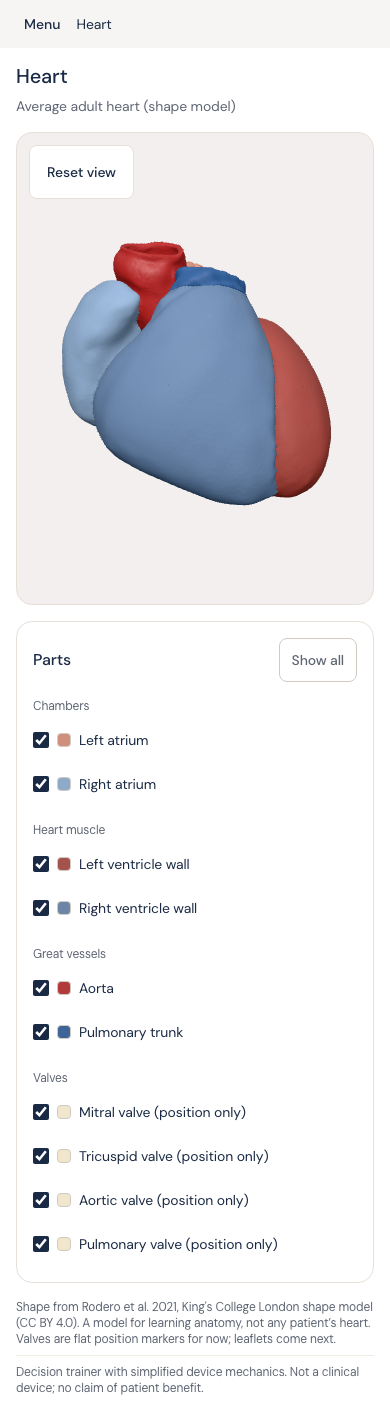
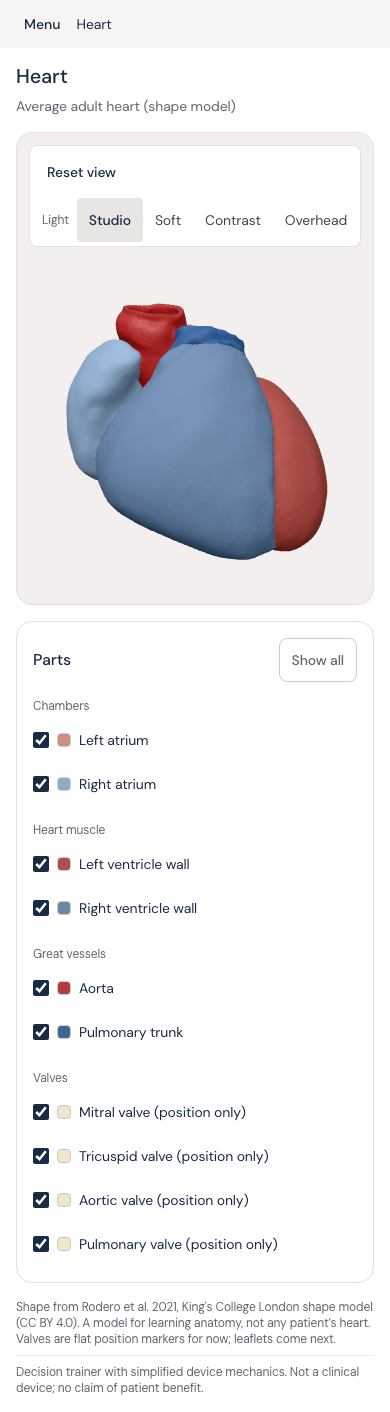
Heart tab: four lighting versions to switch between (look gate 1)
Studio, Soft, Contrast and Overhead on a Light switch in the view's toolbar,
remembered per browser. On a phone the toolbar sits above the view.

Changed region(s): [[0.1538, 0.1558, 0.8615, 0.4051]]

diff --git a/client/src/heart/index.ts b/client/src/heart/index.ts
@@ -12,7 +12,7 @@ import { h, replace } from '../ui/dom';
 import { href } from '../ui/router';
 import { honestyLine, renderShell } from '../ui/shell';
 import './heart.css';
-import { GROUPS, HEARTS_URL, type HeartEntry, type HeartIndex, type HeartPart } from './parts';
+import { DEFAULT_LIGHTING, GROUPS, HEARTS_URL, isLighting, LIGHTINGS, type HeartEntry, type HeartIndex, type HeartPart, type LightingId } from './parts';
 import type { HeartViewer } from './viewer';
 
 let viewer: HeartViewer | null = null;
@@ -47,7 +47,41 @@ function writeHidden(id: string, hidden: Set<string>): void {
   }
 }
 
+/** The lighting version is a taste, not a fact about one heart: kept per browser, for every heart. */
+const LIGHTING_KEY = 'threadsim.heart.lighting.v1';
+
+function readLighting(): LightingId {
+  try {
+    const saved = localStorage.getItem(LIGHTING_KEY);
+    return isLighting(saved) ? saved : DEFAULT_LIGHTING;
+  } catch {
+    return DEFAULT_LIGHTING;
+  }
+}
+
+function writeLighting(id: LightingId): void {
+  try {
+    localStorage.setItem(LIGHTING_KEY, id);
+  } catch {
+    // Nothing depends on it.
+  }
+}
+
 // ---------------------------------------------------------------- pieces
+
+/** "Light: Studio | Soft | Contrast | Overhead", the same segmented control as the case views' switches. */
+function lightingSwitch(v: HeartViewer, current: LightingId): HTMLElement {
+  const segments = LIGHTINGS.map((l) => {
+    const b = h('button', { type: 'button', class: 'segment', 'aria-pressed': String(l.id === current), title: l.hint, 'data-lighting': l.id }, l.label);
+    b.addEventListener('click', () => {
+      v.setLighting(l.id);
+      writeLighting(l.id);
+      for (const s of segments) s.setAttribute('aria-pressed', String(s === b));
+    });
+    return b;
+  });
+  return h('div', { class: 'heart-lighting' }, h('span', { class: 'label', id: 'heart-lighting-label' }, 'Light'), h('div', { class: 'segmented', role: 'group', 'aria-labelledby': 'heart-lighting-label' }, segments));
+}
 
 async function loadIndex(): Promise<HeartEntry[]> {
   const res = await fetch(`${HEARTS_URL}index.json`);
@@ -158,7 +192,8 @@ export async function renderHeart(root: HTMLElement, id: string | undefined): Pr
   // ---- the view: three.js and the model load now, behind the progress bar
   try {
     const { createHeartViewer } = await import('./viewer');
-    const v = await createHeartViewer(`${HEARTS_URL}${heart.glb}`, `${heart.title}, in 3D. Drag to turn, scroll to zoom.`, (fraction) => {
+    const lighting = readLighting();
+    const v = await createHeartViewer(`${HEARTS_URL}${heart.glb}`, `${heart.title}, in 3D. Drag to turn, scroll to zoom.`, lighting, (fraction) => {
       if (fraction === null) progress.removeAttribute('value');
       else progress.value = fraction;
     });
@@ -169,7 +204,7 @@ export async function renderHeart(root: HTMLElement, id: string | undefined): Pr
     viewer = v;
     const reset = h('button', { type: 'button', class: 'btn btn-secondary', 'data-testid': 'heart-reset' }, 'Reset view');
     reset.addEventListener('click', () => v.resetView());
-    replace(stage, v.canvas, h('div', { class: 'view-toolbar' }, reset));
+    replace(stage, h('div', { class: 'view-toolbar' }, reset, lightingSwitch(v, lighting)), h('div', { class: 'heart-view' }, v.canvas));
     replace(panel, partList(heart, v.parts, v));
     stage.dataset['triangles'] = String(v.triangles);
     // Two frames, so the heart is drawn before it fades in.

diff --git a/client/src/heart/viewer.ts b/client/src/heart/viewer.ts
@@ -14,7 +14,18 @@ import { MeshoptDecoder } from 'three/examples/jsm/libs/meshopt_decoder.module.j
 import { GLTFLoader } from 'three/examples/jsm/loaders/GLTFLoader.js';
 
 import { THEME_EVENT, token, tokenMs } from '../render/tokens';
-import { partLook, type HeartPart, type Tissue } from './parts';
+import { partLook, type HeartPart, type LightingId, type Tissue } from './parts';
+
+/**
+ * Lighting versions. Light is white in all of them, so the tokens alone colour the parts. `room` is the strength of
+ * the environment map; key and fill are in the camera's frame (x right, y up, z toward the viewer).
+ */
+const LIGHT: Record<LightingId, { room: number; key: number; keyFrom: [number, number, number]; fill: number }> = {
+  studio: { room: 0.4, key: 1.7, keyFrom: [-0.6, 0.9, 1], fill: 0.3 },
+  soft: { room: 0.95, key: 0.55, keyFrom: [-0.3, 0.6, 1], fill: 0.25 },
+  contrast: { room: 0.14, key: 2.7, keyFrom: [-1.4, 0.5, 0.35], fill: 0.08 },
+  overhead: { room: 0.3, key: 2.3, keyFrom: [0, 1.7, 0.35], fill: 0.2 },
+};
 
 /** How each tissue takes light. Muscle is matte, vessel walls a little glossier, valve tissue smooth and pale. */
 const SURFACE: Record<Tissue, { roughness: number; envMapIntensity: number }> = {
@@ -36,6 +47,7 @@ export interface HeartViewer {
   readonly parts: readonly HeartPart[];
   readonly triangles: number;
   setVisible(name: string, on: boolean): void;
+  setLighting(id: LightingId): void;
   /** Ease back to the starting anterior view (instant with reduced motion). */
   resetView(): void;
   dispose(): void;
@@ -49,7 +61,7 @@ interface Extras {
 
 const text = (v: unknown, fallback: string): string => (typeof v === 'string' && v ? v : fallback);
 
-export async function createHeartViewer(url: string, label: string, onProgress: (fraction: number | null) => void): Promise<HeartViewer> {
+export async function createHeartViewer(url: string, label: string, lighting: LightingId, onProgress: (fraction: number | null) => void): Promise<HeartViewer> {
   const loader = new GLTFLoader();
   loader.setMeshoptDecoder(MeshoptDecoder);
   const gltf = await loader.loadAsync(url, (e) => onProgress(e.lengthComputable && e.total > 0 ? e.loaded / e.total : null));
@@ -115,6 +127,14 @@ export async function createHeartViewer(url: string, label: string, onProgress: 
   camera.add(key, key.target, fill, fill.target);
   key.target.position.set(0, 0, -1);
   fill.target.position.set(0, 0, -1);
+  const light = (id: LightingId): void => {
+    const l = LIGHT[id];
+    scene.environmentIntensity = l.room;
+    key.intensity = l.key;
+    key.position.set(l.keyFrom[0], l.keyFrom[1], l.keyFrom[2] - 1); // relative to the target, one unit ahead
+    fill.intensity = l.fill;
+  };
+  light(lighting);
   scene.add(camera);
 
   const controls = new OrbitControls(camera, canvas);
@@ -203,6 +223,9 @@ export async function createHeartViewer(url: string, label: string, onProgress: 
     setVisible(name, on) {
       const mesh = meshes.get(name);
       if (mesh) mesh.visible = on;
+    },
+    setLighting(id) {
+      light(id);
     },
     resetView() {
       moveTo(home());

diff --git a/tests/e2e/heart.spec.ts b/tests/e2e/heart.spec.ts
@@ -78,6 +78,27 @@ test('parts hide and show, by mouse and by keyboard, and the choice is kept for 
   await page.getByTestId('heart-reset').click();
 });
 
+test('the Light switch changes how the heart is lit and is remembered', async ({ page }) => {
+  test.setTimeout(90_000);
+  await page.setViewportSize({ width: 1440, height: 900 });
+  await openHeart(page);
+  const pressed = (id: string) => page.locator(`[data-lighting=${id}]`);
+  await expect(pressed('studio')).toHaveAttribute('aria-pressed', 'true');
+  await page.waitForTimeout(600);
+  const studio = await page.getByTestId('heart-stage').screenshot();
+
+  await page.getByRole('group', { name: 'Light' }).getByRole('button', { name: 'Contrast' }).click();
+  await expect(pressed('contrast')).toHaveAttribute('aria-pressed', 'true');
+  await expect(pressed('studio')).toHaveAttribute('aria-pressed', 'false');
+  await page.waitForTimeout(300);
+  expect((await page.getByTestId('heart-stage').screenshot()).equals(studio)).toBe(false);
+
+  await page.reload();
+  await expect(page.getByTestId('heart-stage')).toHaveAttribute('data-state', 'ready', { timeout: 30_000 });
+  await expect(pressed('contrast')).toHaveAttribute('aria-pressed', 'true');
+  for (const id of ['studio', 'soft', 'contrast', 'overhead']) await expect(pressed(id)).toBeVisible();
+});
+
 test('empty and error states say what happened and what to do', async ({ page }) => {
   await page.goto('/#/heart/no-such-heart');
   await expect(page.getByRole('heading', { name: 'No heart with that name' })).toBeVisible();

diff --git a/client/src/heart/heart.css b/client/src/heart/heart.css
@@ -29,6 +29,11 @@
   border-radius: var(--radius-card);
 }
 
+.heart-view {
+  position: absolute;
+  inset: 0;
+}
+
 .heart-canvas {
   position: absolute;
   inset: 0;
@@ -42,6 +47,20 @@
 
 .heart-stage .view-toolbar {
   z-index: 1;
+}
+
+/* The toolbar may wrap, but never runs under the view's right edge. */
+.heart-stage .view-toolbar {
+  right: var(--space-3);
+  width: fit-content;
+  max-width: calc(100% - 2 * var(--space-3));
+}
+
+.heart-lighting {
+  display: flex;
+  align-items: center;
+  gap: var(--space-2);
+  padding-left: var(--space-2);
 }
 
 .heart-message {
@@ -202,6 +221,27 @@
 
   .heart-groups {
     grid-template-columns: minmax(0, 1fr);
+  }
+
+  /* The toolbar wraps to two rows here, so it sits above the view instead of over the heart. */
+  .heart-stage[data-state='ready'] {
+    display: flex;
+    flex-direction: column;
+  }
+
+  .heart-stage .view-toolbar {
+    position: static;
+    flex: none;
+    width: auto;
+    max-width: none;
+    margin: var(--space-3) var(--space-3) 0;
+  }
+
+  .heart-view {
+    position: relative;
+    inset: auto;
+    flex: 1 1 0;
+    min-height: 0;
   }
 
   .heart-part {

diff --git a/client/src/heart/parts.ts b/client/src/heart/parts.ts
@@ -41,6 +41,17 @@ export const GROUPS: readonly { id: string; label: string }[] = [
   { id: 'subvalvular', label: 'Under the valves' },
 ];
 
+/** The lighting versions the view offers. The numbers are in viewer.ts; these are the names on the switch. */
+export const LIGHTINGS = [
+  { id: 'studio', label: 'Studio', hint: 'Balanced: a key light over your left shoulder and soft room light' },
+  { id: 'soft', label: 'Soft', hint: 'Even light from all sides, few shadows, as in an atlas plate' },
+  { id: 'contrast', label: 'Contrast', hint: 'A strong side light and little fill, so grooves and edges stand out' },
+  { id: 'overhead', label: 'Overhead', hint: 'Lit from above, like a theatre lamp' },
+] as const;
+export type LightingId = (typeof LIGHTINGS)[number]['id'];
+export const DEFAULT_LIGHTING: LightingId = 'studio';
+export const isLighting = (v: unknown): v is LightingId => LIGHTINGS.some((l) => l.id === v);
+
 export interface HeartPart {
   /** The mesh's name in the GLB, e.g. lv_myocardium. */
   name: string;

diff --git a/DECISIONS.md b/DECISIONS.md
@@ -396,3 +396,8 @@ One line per decision: date · who · decision · why. Append only. A decision t
   - **Fade-in:** the heart fades in over `--duration-slow` once drawn. DESIGN.md says nothing performs an entrance; this one covers the first frames of a large model and is off with reduced motion.
   - **Screenshots, not pixel baselines, at M0:** the e2e test saves 1440, 768 and 390 px screenshots to `test-results/heart/` on every run. Pixel baselines wait for M3, when the look has passed its gates; software and hardware WebGL also differ too much to share one baseline yet.
   - **pnpm through npx:** `heartgen` runs glTF Transform with `pnpm dlx`, or `npx -y pnpm@9.15.9 dlx` on a machine with no global pnpm. No lockfile changes; glTF Transform is not a project dependency.
+- 2026-11-15 · David · **Heart tab, look gate 1.** David's answers and what changed:
+  - **Placement: approved.** "Heart" stays in the sidebar, under Library.
+  - **Palette: approved** as it is (left heart warm, right heart cool, valves ivory).
+  - **Lighting: not one look, a choice.** David asked for versions to switch between. The view's toolbar now has "Light": Studio (the M0 look, the default), Soft (even, atlas-like), Contrast (a strong side light) and Overhead (lit from above). All four use white light, so the tokens still colour the parts. The choice is kept per browser (`threadsim.heart.lighting.v1`) for every heart. Whether one becomes the only look, or the switch stays, is open at look gate 2.
+  - On a phone the toolbar wraps to two rows, so it sits above the view there instead of over the heart.
